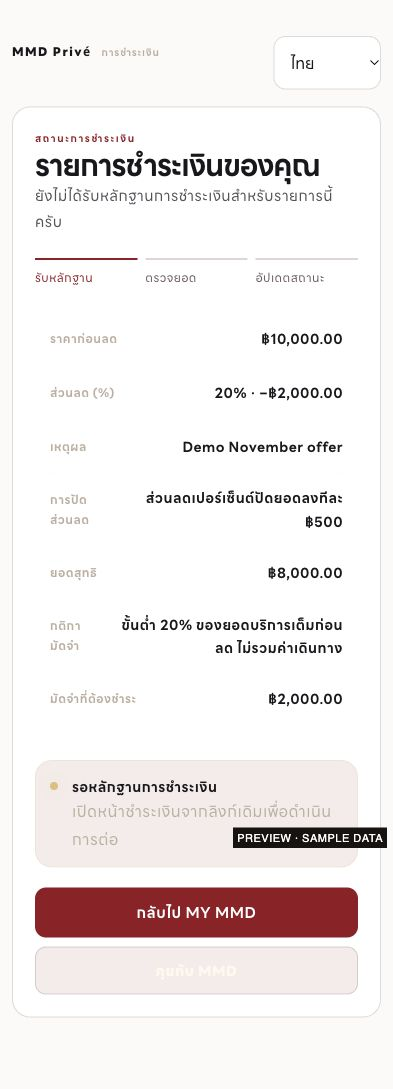
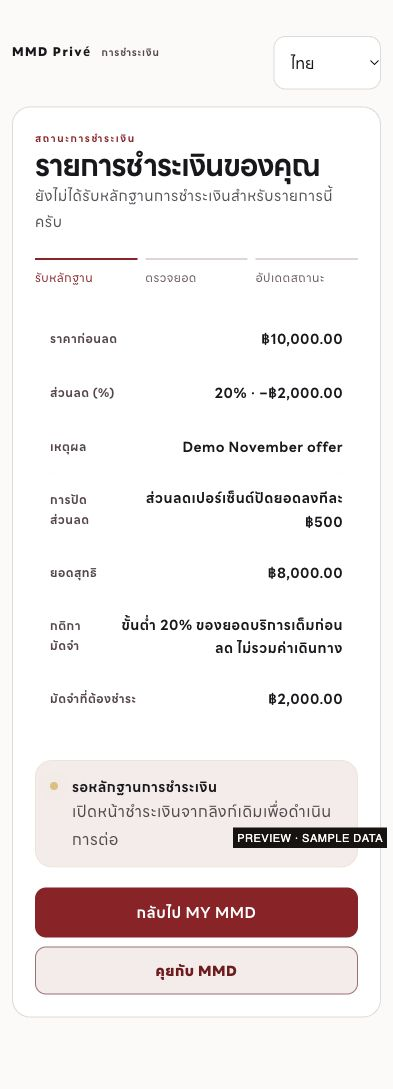
Preserve held Public deposit and improve confirmation contrast

diff --git a/admin-worker/src/sigil-jobs-held-release.js b/admin-worker/src/sigil-jobs-held-release.js
@@ -229,9 +229,13 @@ function paymentPayload(body, session, meta) {
   const pricing = noteSnapshot(note, PRICING_MARKER);
   const basis = pricing.deposit_basis_thb;
   const deposit = pricing.deposit_due_thb;
+  const grossPolicy = ["public_model_v1", "private_model_v1"].includes(pricing.deposit_policy);
+  const serviceAmount = grossPolicy
+    ? amountThb - Number(fieldValue(session, SESSION_FIELDS.travelFeeThb) || 0)
+    : basis;
   const heldDeposit = paymentType === "deposit" && pricing.net_price_thb === amountThb
-    && Number.isFinite(basis) && basis > 0 && basis <= amountThb
-    && Number.isFinite(deposit) && deposit > 0 && deposit <= basis;
+    && Number.isFinite(basis) && basis > 0 && basis <= (grossPolicy ? pricing.full_price_thb : amountThb)
+    && Number.isFinite(deposit) && deposit > 0 && deposit <= serviceAmount;
   const full = pricing.full_price_thb;
   const heldDiscount = heldDeposit && Number.isFinite(full) && full > amountThb
     && Math.abs(full - amountThb - pricing.discount_thb) < 0.005;
@@ -249,8 +253,9 @@ function paymentPayload(body, session, meta) {
     amount_thb: amountThb,
     travel_fee_thb: fieldValue(session, SESSION_FIELDS.travelFeeThb),
     model_travel_fee_thb: fieldValue(session, SESSION_FIELDS.modelTravelFeeThb),
-    ...(heldDeposit ? { service_amount_thb: basis, deposit_amount_thb: deposit } : {}),
-    ...(heldDiscount ? { original_amount_thb: full, pricing_adjustment: "discount", discount_kind: pricing.discount_kind } : {}),
+    ...(heldDeposit ? { service_amount_thb: serviceAmount, deposit_amount_thb: deposit } : {}),
+    ...(heldDiscount ? { original_amount_thb: full, pricing_adjustment: "discount", discount_kind: pricing.discount_kind, discount_reason: pricing.discount_reason, discount_mode: pricing.discount_mode, discount_percent: pricing.discount_percent, discount_basis_thb: pricing.discount_basis_thb, discount_rounding: pricing.discount_rounding } : {}),
+    ...(heldDeposit && grossPolicy ? { deposit_policy: pricing.deposit_policy, deposit_percent: pricing.deposit_requested_percent } : {}),
     pay_model_thb: fieldValue(session, SESSION_FIELDS.payModelThb),
     payment_type: paymentType,
     payment_method: paymentMethod,

diff --git a/webflow/sigil/confirm/payment-confirmation-runtime-v1.js b/webflow/sigil/confirm/payment-confirmation-runtime-v1.js
@@ -182,6 +182,8 @@
           #mmd-payment-confirmation[data-payment-world="public"] .mpc-shell{display:block;padding:24px 0 44px}
           #mmd-payment-confirmation[data-payment-world="public"] .mpc-brand{position:relative;inset:auto;display:inline-flex;min-height:44px}
           #mmd-payment-confirmation[data-payment-world="public"] .mpc-card{margin:24px 0 0;background:#fff;box-shadow:none}
+          #mmd-payment-confirmation[data-payment-world="public"] :is(.mpc-summary-item span,.mpc-status p,.mpc-brand small){color:#57454d!important;-webkit-text-fill-color:#57454d!important}
+          #mmd-payment-confirmation[data-payment-world="public"] .mpc-actions a[href*="lin.ee"]{color:#79101c!important;-webkit-text-fill-color:#79101c!important;border-color:#a46b76}
           #mmd-payment-confirmation[data-payment-world="public"] .mpc-language{background:#fff;color:#211b1e;border-color:#e1d4d8}
           #mmd-payment-confirmation[data-payment-world="public"] .mpc-progress li{color:#695860;border-color:#e1d4d8}
           #mmd-payment-confirmation[data-payment-world="public"] .mpc-progress :is(.is-current,.is-done){color:#941523;border-color:#941523}

diff --git a/payments-worker/canonical-confirm-link.js b/payments-worker/canonical-confirm-link.js
@@ -221,7 +221,7 @@ export async function handleCanonicalConfirmLink(request, env) {
           deposit_round_step_thb: privateModelDeposit ? 500 : CUSTOMER_DEPOSIT_ROUND_STEP_THB,
           deposit_rounding: privateModelDeposit ? "ceil_to_500_baht" : "ceil_to_baht",
         }
-      : {
+      : discountMode === "none" ? null : {
           full_price_thb: originalAmountThb, discount_mode: discountMode,
           discount_percent: discountPercent, discount_basis_thb: discountBasis,
           discount_rounding: discountRounding, discount_thb: discountMode === "none" ? 0 : discountThb,
